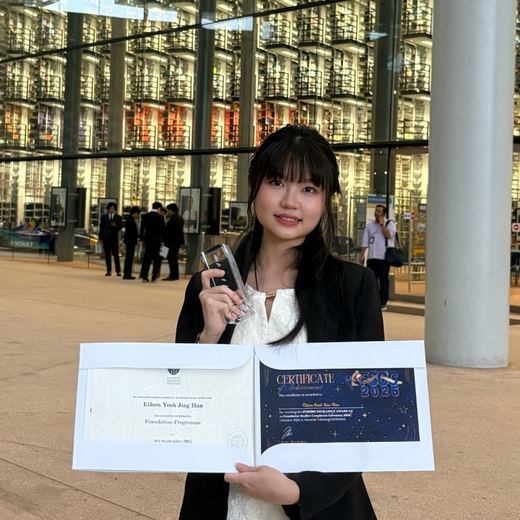
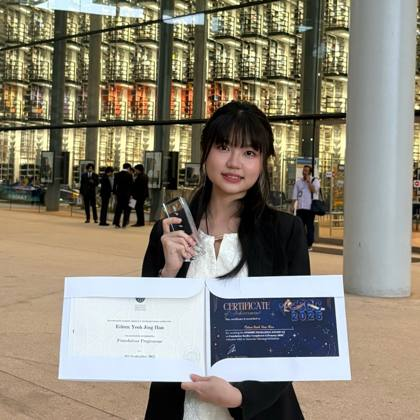
feat: fill the hero photo wall with Eileen's own photos
39 photos (events, hackathons, labs, travel) resized to ~420px and dealt
round-robin across the five scrolling columns; project screenshots removed
from the wall.

Claude-Session: https://claude.ai/code/session_016EupXrqz5r2qR71EHWR7Jy

diff --git a/src/data/wall.ts b/src/data/wall.ts
@@ -1,19 +1,43 @@
-// Photos for the scrolling wall behind the home-page hero.
-// Add a photo: drop a JPG (~520px wide) into public/images/wall/ and list it here.
-export interface WallPhoto {
-  src: string;
-  alt: string;
-}
-
-export const wallPhotos: WallPhoto[] = [
-  { src: '/images/wall/eileen-award.jpg', alt: 'Eileen holding her Student Excellence Award at UTP' },
-  { src: '/images/wall/aria-node.jpg', alt: 'ARIA sensor node on perfboard' },
-  { src: '/images/wall/sedic-team.jpg', alt: 'Team NEXA at SEDIC 2026' },
-  { src: '/images/wall/nexa-dashboard.jpg', alt: 'NEXA tariff dashboard' },
-  { src: '/images/wall/sedic-replay.jpg', alt: 'OMNI console spectrogram replay' },
-  { src: '/images/wall/aws-setup.jpg', alt: 'AWS-IQ onboarding setup tracker' },
-  { src: '/images/wall/aria-exploded.jpg', alt: 'ARIA node exploded view' },
-  { src: '/images/wall/aws-dashboard.jpg', alt: 'AWS-IQ onboarding dashboard' },
-  { src: '/images/wall/sedic-signal.jpg', alt: 'Signal analysis view of one radio window' },
-  { src: '/images/wall/nexa-chatbot.jpg', alt: 'NEXA AI chatbot' },
+// Photos for the scrolling wall behind the home-page hero (decorative, so no alt text).
+// Add a photo: drop a JPG (~420px wide) into public/images/wall/ and list it here.
+export const wallPhotos: string[] = [
+  '/images/wall/eileen-award.jpg',
+  '/images/wall/eileen-01.jpg',
+  '/images/wall/eileen-02.jpg',
+  '/images/wall/eileen-03.jpg',
+  '/images/wall/eileen-04.jpg',
+  '/images/wall/eileen-05.jpg',
+  '/images/wall/eileen-06.jpg',
+  '/images/wall/eileen-07.jpg',
+  '/images/wall/eileen-08.jpg',
+  '/images/wall/eileen-09.jpg',
+  '/images/wall/eileen-10.jpg',
+  '/images/wall/eileen-11.jpg',
+  '/images/wall/eileen-12.jpg',
+  '/images/wall/eileen-13.jpg',
+  '/images/wall/eileen-14.jpg',
+  '/images/wall/eileen-15.jpg',
+  '/images/wall/eileen-16.jpg',
+  '/images/wall/eileen-17.jpg',
+  '/images/wall/eileen-18.jpg',
+  '/images/wall/eileen-19.jpg',
+  '/images/wall/eileen-20.jpg',
+  '/images/wall/eileen-21.jpg',
+  '/images/wall/eileen-22.jpg',
+  '/images/wall/eileen-23.jpg',
+  '/images/wall/eileen-24.jpg',
+  '/images/wall/eileen-25.jpg',
+  '/images/wall/eileen-26.jpg',
+  '/images/wall/eileen-27.jpg',
+  '/images/wall/eileen-28.jpg',
+  '/images/wall/eileen-29.jpg',
+  '/images/wall/eileen-30.jpg',
+  '/images/wall/eileen-31.jpg',
+  '/images/wall/eileen-32.jpg',
+  '/images/wall/eileen-33.jpg',
+  '/images/wall/eileen-34.jpg',
+  '/images/wall/eileen-35.jpg',
+  '/images/wall/eileen-36.jpg',
+  '/images/wall/eileen-37.jpg',
+  '/images/wall/eileen-38.jpg',
 ];
